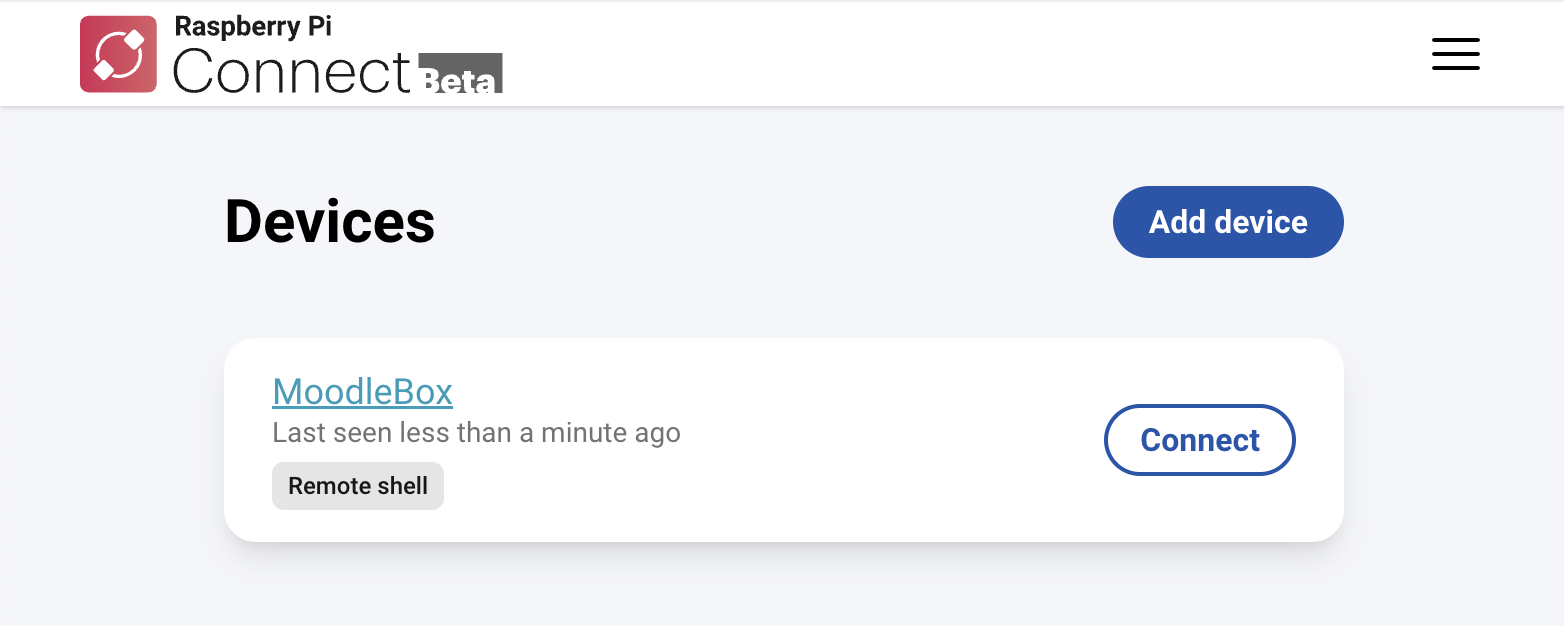
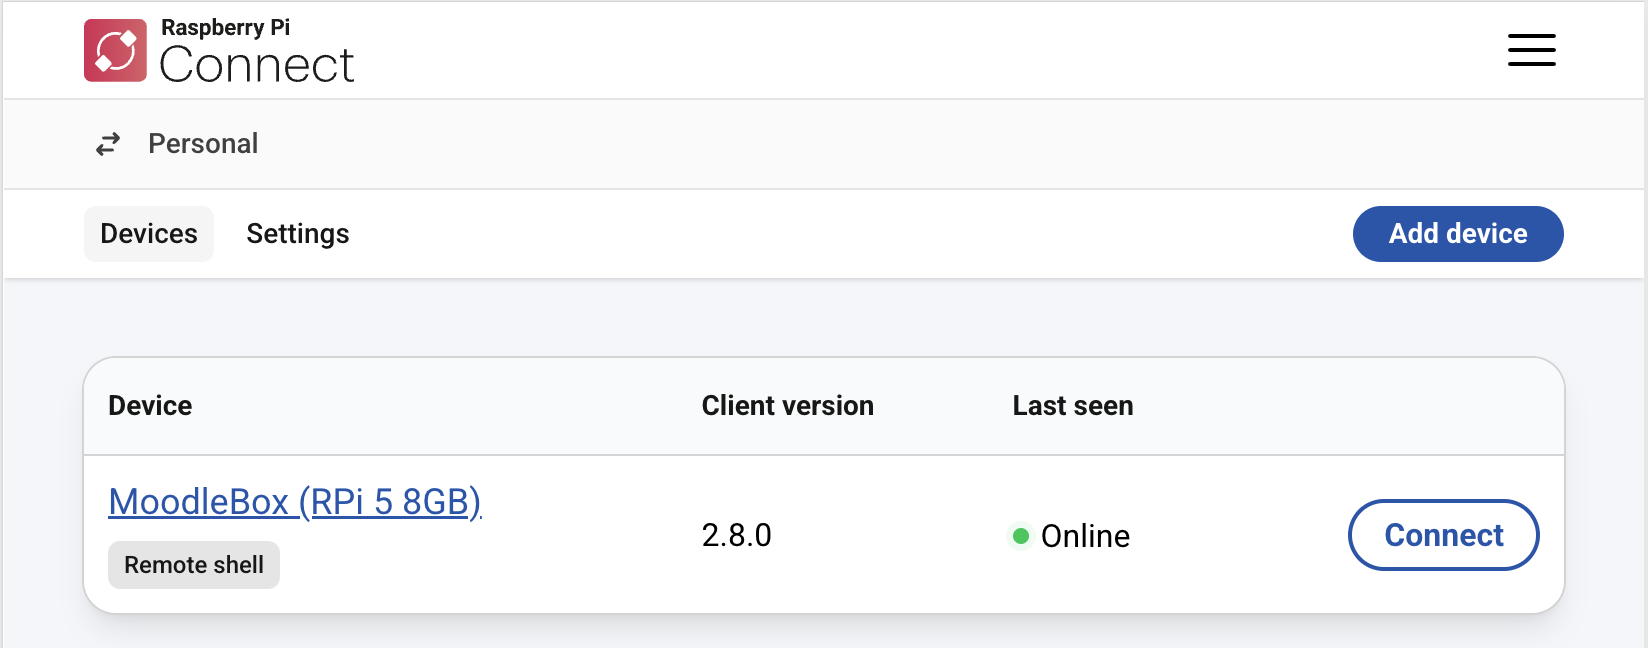
Update screenshots remote shell connection

diff --git a/content/fr/help/remote-shell/index.md b/content/fr/help/remote-shell/index.md
@@ -4,7 +4,7 @@ authors:
   - Nicolas Martignoni
 type: kb
 date: 2024-11-03
-lastmod: 2024-11-03
+lastmod: 2026-02-22
 description: Enable remote secure shell access (command line interface) to your MoodleBox from anywhere in the world, using Raspberry Pi Connect.
 keywords:
   - ligne de commande
@@ -61,7 +61,7 @@ Vous êtes redirigé vers le service Raspberry Pi ID pour vous connecter.
 Après avoir procédé à la connexion, une liste d'appareils reliés est présentée.
 Les appareils disponibles pour l'accès à distance affichent un badge gris __Remote shell__ sous le nom de l'appareil.
 
-{{< figure src="/img/media/list-connect-devices.png" title="Liste des appareils" class="centered-image" width="550" >}}
+{{< figure src="/img/media/list-connect-devices.png" title="Liste des appareils" class="centered-image" width="700" >}}
 
 Cliquez sur le bouton __Connect__ à droite de l'appareil auquel vous souhaitez accéder pour ouvrir une session shell sur votre MoodleBox.
 

diff --git a/content/de/help/remote-shell/index.md b/content/de/help/remote-shell/index.md
@@ -4,7 +4,7 @@ authors:
   - Nicolas Martignoni
 type: kb
 date: 2024-11-03
-lastmod: 2024-11-03
+lastmod: 2026-02-22
 description: Enable remote secure shell access (command line interface) to your MoodleBox from anywhere in the world, using Raspberry Pi Connect.
 keywords:
   - shell
@@ -63,7 +63,7 @@ Sie werden zum Raspberry Pi ID-Dienst weitergeleitet, um sich anzumelden.
 Nach der Anmeldung wird eine Liste der verknüpften Geräte angezeigt.
 Geräte, die für den Remote-Shell-Zugriff verfügbar sind, zeigen ein graues __Remote shell__-Abzeichen unter dem Namen des Geräts.
 
-{{< figure src="/img/media/list-connect-devices.png" title="List of devices" class="centered-image" width="550" >}}
+{{< figure src="/img/media/list-connect-devices.png" title="List of devices" class="centered-image" width="700" >}}
 
 Klicken Sie auf die Schaltfläche __Connect__ rechts neben dem Gerät, auf das Sie zugreifen möchten, um eine Shell-Sitzung auf Ihrer MoodleBox zu öffnen.
 

diff --git a/content/en/help/remote-shell/index.md b/content/en/help/remote-shell/index.md
@@ -4,7 +4,7 @@ authors:
   - Nicolas Martignoni
 type: kb
 date: 2024-11-03
-lastmod: 2024-11-03
+lastmod: 2026-02-22
 description: Enable remote secure shell access (command line interface) to your MoodleBox from anywhere in the world, using Raspberry Pi Connect.
 keywords:
   - shell
@@ -62,7 +62,7 @@ You're redirected you to the Raspberry Pi ID service to sign in.
 After signing in, a list of linked devices is presented.
 Devices available for remote shell access show a grey __Remote shell__ badge below the name of the device.
 
-{{< figure src="/img/media/list-connect-devices.png" title="List of devices" class="centered-image" width="550" >}}
+{{< figure src="/img/media/list-connect-devices.png" title="List of devices" class="centered-image" width="700" >}}
 
 Click the __Connect__ button to the right of the device you would like to access, to open a shell session on your MoodleBox.
 
